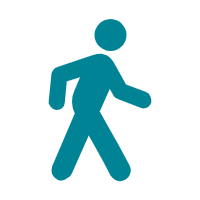
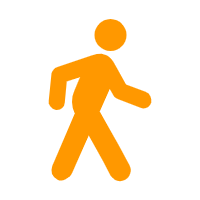
修改导航栏
彩色图标+震动

Changed region(s): [[0.24, 0.09, 0.78, 0.93]]

diff --git a/miniprogram/components/bottomNav/bottomNav.js b/miniprogram/components/bottomNav/bottomNav.js
@@ -13,6 +13,12 @@ Component({
    * 组件的初始数据
    */
   data: {
+    selectedColor:[
+      "#f44336",
+      "#ff9800",
+      "#03a9f4",
+      "#009688"
+    ],
     imgWidth:[
       "27px",
       "27px",
@@ -33,7 +39,6 @@ Component({
     ],
     selected: 0,
     color: "#90a4ae",
-    selectedColor: "#008394",
     list: [{
       iconPath: "health.png",
       selectedIconPath: "health_HL.png",
@@ -66,6 +71,7 @@ Component({
    */
   methods: {
     switchTab(e){
+      wx.vibrateShort();
       const data = e.currentTarget.dataset;
       if (data.index == this.data.selected) {
         return;
